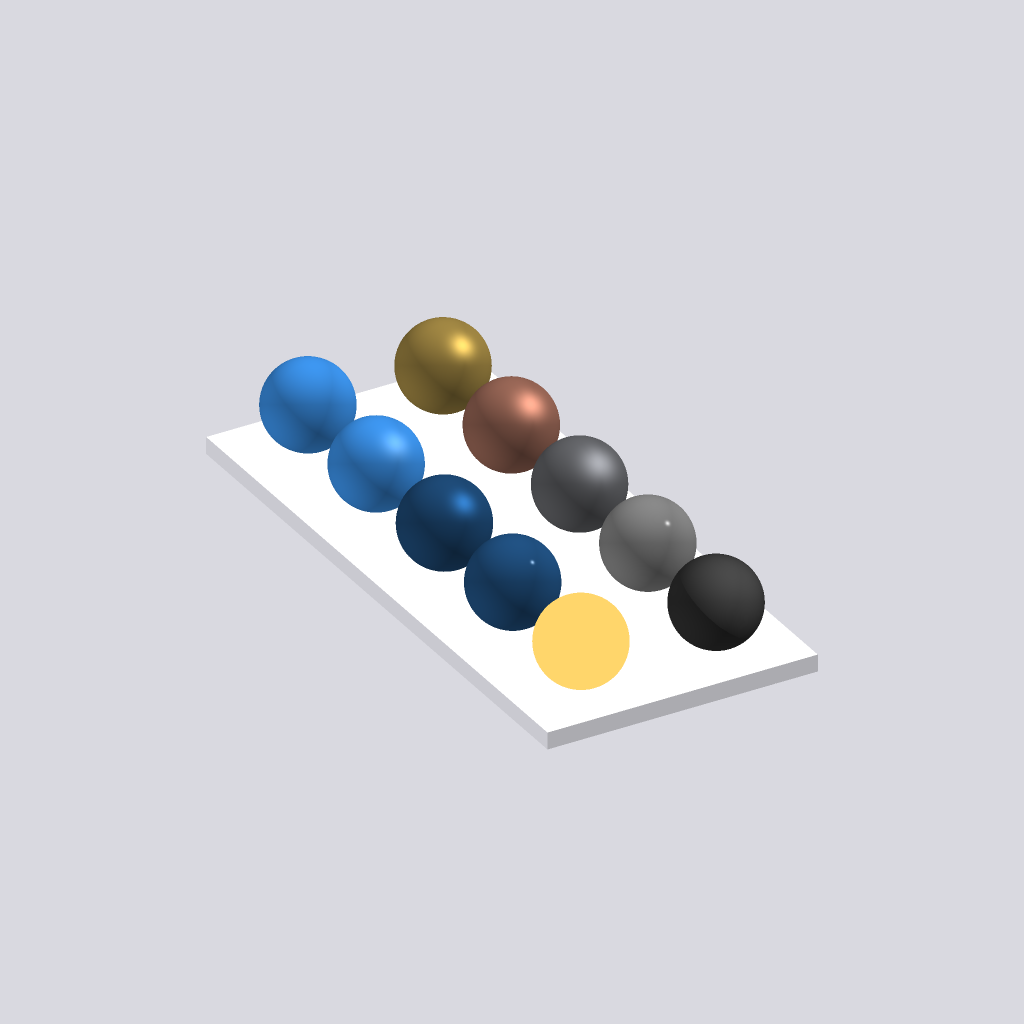
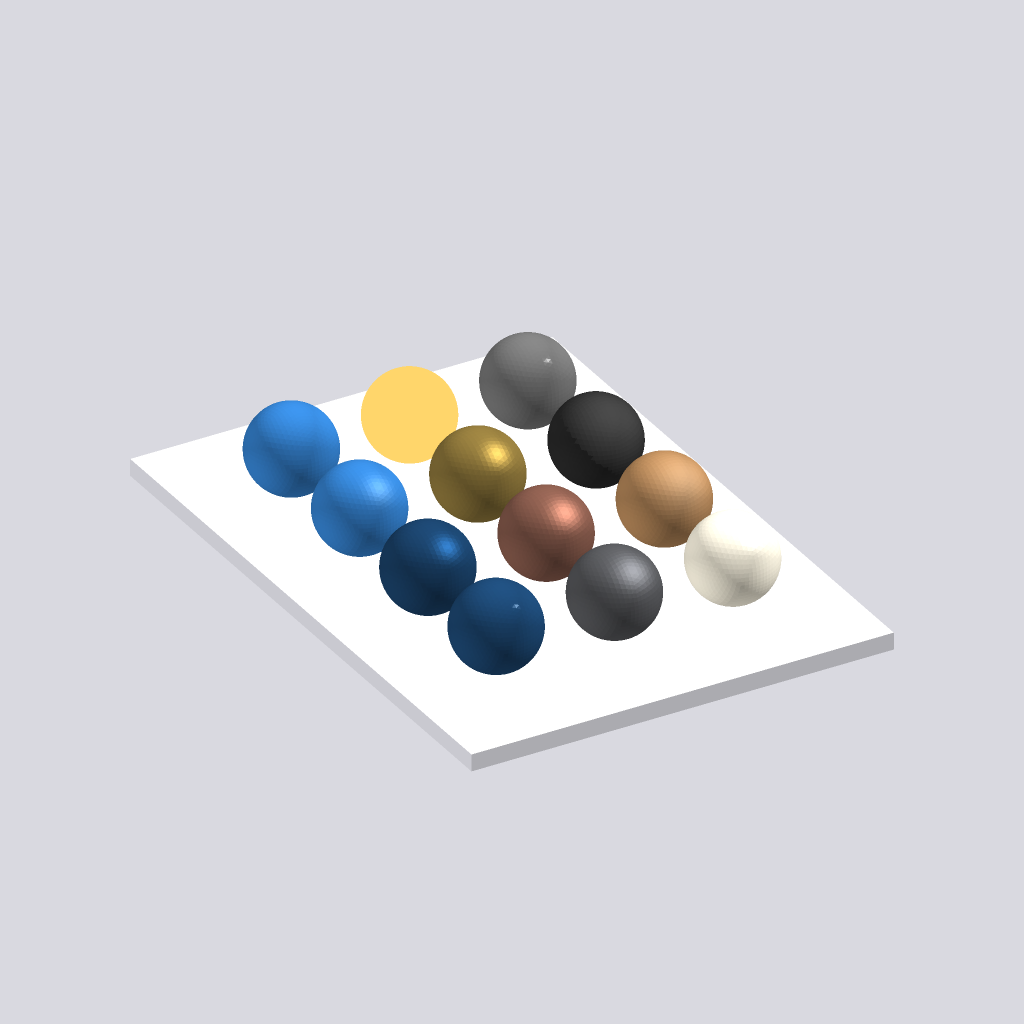
Add wood and ivory material presets

Changed region(s): [[0.125, 0.3125, 0.875, 0.75]]

diff --git a/website/cheatsheet.html b/website/cheatsheet.html
@@ -175,7 +175,7 @@ obj:material("glass", { ior = 1.5, roughness = 0.1 })
 obj:material({ kind = "emissive", strength = 4 })
 
 -- Presets with a built-in color:
--- steel, chrome, gold, copper, brass, rubber
+-- steel, chrome, gold, copper, brass, rubber, wood, ivory
 obj:material("gold")</code></pre>
     </section>
 

diff --git a/crates/luacad/src/material.rs b/crates/luacad/src/material.rs
@@ -69,8 +69,8 @@ impl MaterialSpec {
   ///
   /// The base kinds (`matte`, `plastic`, `metal`, `glass`, `emissive`) carry
   /// no color; the convenience presets (`steel`, `chrome`, `gold`, `copper`,
-  /// `brass`, `rubber`) also set a default color used when the object has no
-  /// explicit `color()`.
+  /// `brass`, `rubber`, `wood`, `ivory`) also set a default color used when
+  /// the object has no explicit `color()`.
   pub fn named(name: &str) -> Option<MaterialSpec> {
     let base = MaterialSpec::default();
     let kind = |kind| MaterialSpec { kind, ..base };
@@ -126,6 +126,20 @@ impl MaterialSpec {
         roughness: 0.7,
         specular: 0.03,
         default_color: c(38, 38, 38),
+        ..base
+      }),
+      "wood" => Some(MaterialSpec {
+        kind: MaterialKind::Plastic,
+        roughness: 0.5,
+        specular: 0.04,
+        default_color: c(166, 124, 82),
+        ..base
+      }),
+      "ivory" => Some(MaterialSpec {
+        kind: MaterialKind::Plastic,
+        roughness: 0.2,
+        specular: 0.08,
+        default_color: c(242, 236, 218),
         ..base
       }),
       _ => None,
@@ -260,7 +274,8 @@ pub fn parse_material_args(
     MaterialSpec::named(name).ok_or_else(|| {
       mlua::Error::RuntimeError(format!(
         "unknown material \"{name}\" (expected matte, plastic, metal, glass, \
-         emissive, steel, chrome, gold, copper, brass, or rubber)"
+         emissive, steel, chrome, gold, copper, brass, rubber, wood, or \
+         ivory)"
       ))
     })
   };

diff --git a/changelog.md b/changelog.md
@@ -17,8 +17,8 @@ any release.
   (the implicit default look), `metal`, `glass`, and `emissive`, with
   parameter overrides per kind: `material("glass", {ior = 1.5, roughness =
   0.1})`, `material({kind = "emissive", strength = 4})`. The presets `steel`,
-  `chrome`, `gold`, `copper`, `brass`, and `rubber` also carry a default
-  color, used only when no `color()` is set. `luacad render --raytrace` maps
+  `chrome`, `gold`, `copper`, `brass`, `rubber`, `wood`, and `ivory` also
+  carry a default color, used only when no `color()` is set. `luacad render --raytrace` maps
   each kind onto a real BSDF (metals reflect, glass refracts, emissive shapes
   light the scene); the rasterizer and the Studio preview approximate them
   with per-object highlight parameters. Materials have no OpenSCAD
